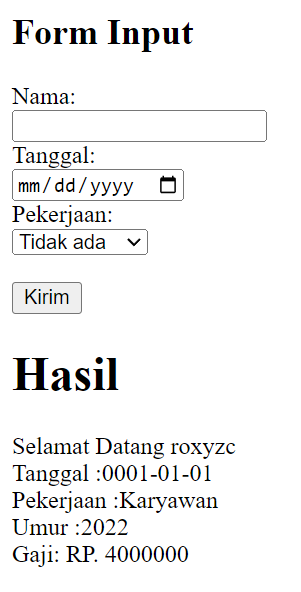
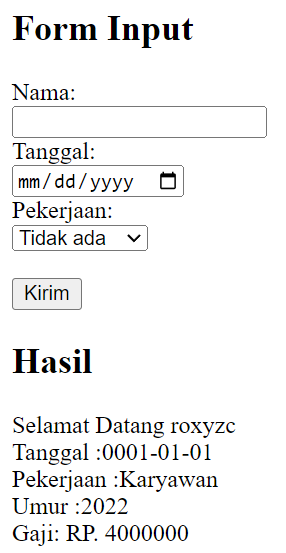
update

diff --git a/praktikum2.php b/praktikum2.php
@@ -25,7 +25,7 @@
     <?php
 
     if (isset($_POST["submit"])) {
-        echo '<h1>Hasil</h1>';
+        echo '<h2>Hasil</h2>';
         echo 'Selamat Datang ' . $_POST['nama'] . '<br>';
         echo 'Tanggal :' . $_POST["tanggal"] . '<br>';
         echo 'Pekerjaan :' . $_POST["pekerjaan"] . '<br>';
